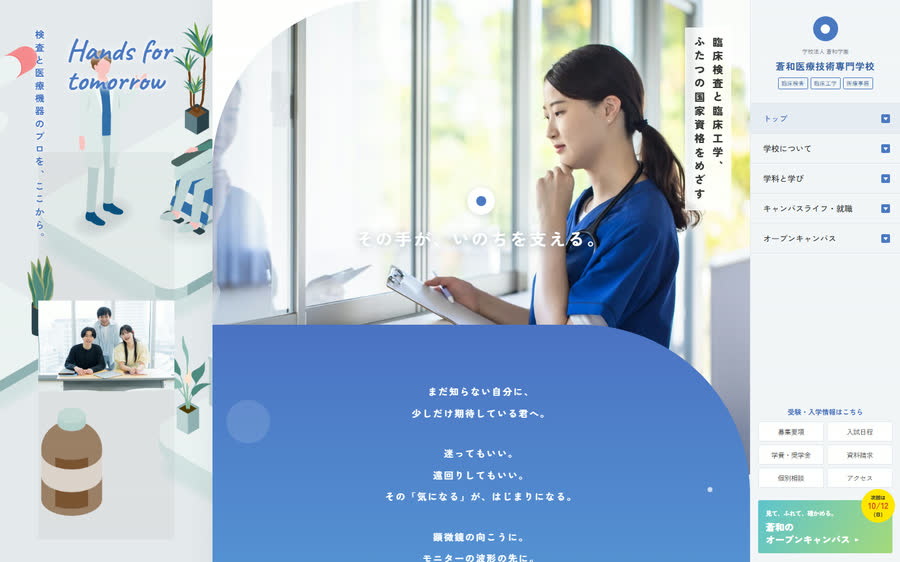
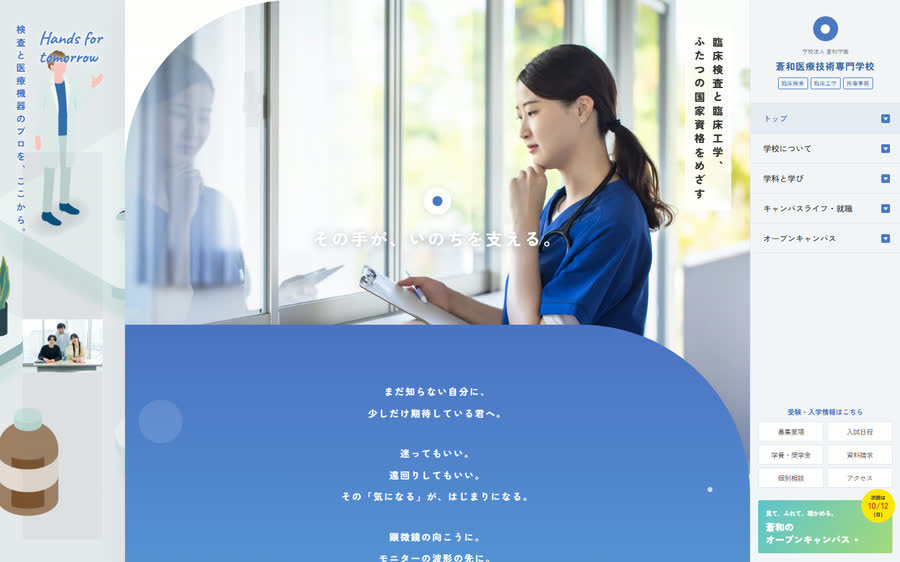
医学技術専門学校① をさらにワイドに（860px → 1000px）
メインを広げると左の装飾「Hands for tomorrow」が隠れたため、
装飾側も左端に寄せて縮小し、両立させた。

- メインカラム 860px → 1000px
- 装飾の位置 left:48px → 18px、gap 28px → 14px
- 手書き文字 48px → 30px（max-width:118px で折り返し）

diff --git a/sites/64-single-page-medical-school-s/Medical Technology School.dc.html b/sites/64-single-page-medical-school-s/Medical Technology School.dc.html
@@ -37,9 +37,9 @@ img{max-width:100%}
         <div style="position:absolute;inset:0">
           <image-slot id="left-bg-illustration" shape="rect" fit="cover" placeholder="背景イラスト（横長・全面）" src="images/left-bg.png"></image-slot>
         </div>
-        <div style="position:absolute;top:48px;left:48px;display:flex;gap:28px;align-items:flex-start;pointer-events:none">
+        <div style="position:absolute;top:40px;left:18px;display:flex;gap:14px;align-items:flex-start;pointer-events:none">
           <div style="writing-mode:vertical-rl;font-size:15px;font-weight:700;letter-spacing:.35em;color:#3f6fbf;line-height:2;text-shadow:0 0 10px #fff,0 0 3px #fff">検査と医療機器のプロを、ここから。</div>
-          <div style="font-family:'Caveat',cursive;font-size:clamp(36px,3.4vw,48px);line-height:1;color:#4a78c2;transform:rotate(-6deg);margin-top:8px;text-shadow:0 0 12px #fff,0 0 4px #fff">Hands for tomorrow</div>
+          <div style="font-family:'Caveat',cursive;font-size:clamp(24px,2vw,30px);line-height:1.05;color:#4a78c2;transform:rotate(-6deg);margin-top:6px;max-width:118px;text-shadow:0 0 12px #fff,0 0 4px #fff">Hands for tomorrow</div>
         </div>
         <div class="char-wrap" data-anim="float" data-dur="8000" style="position:absolute;left:50%;bottom:4%;width:min(64%,440px);height:min(72vh,620px);margin-left:max(-32%,-220px)">
           <image-slot src="_filled/16-20.jpg" id="left-character" shape="rect" fit="contain" placeholder="キャラクターイラスト（透過PNG）"></image-slot>
@@ -48,7 +48,7 @@ img{max-width:100%}
     </sc-if>
   </div>
 
-  <main class="page-main" style="width:100%;max-width:860px;flex-shrink:0;position:relative;background:#fff">
+  <main class="page-main" style="width:100%;max-width:1000px;flex-shrink:0;position:relative;background:#fff">
 
     <sc-if value="{{ narrow }}" hint-placeholder-val="{{ false }}">
       <header style="position:sticky;top:0;z-index:40;display:flex;align-items:center;justify-content:space-between;padding:10px 16px;background:rgba(255,255,255,.94);backdrop-filter:blur(8px);border-bottom:1px solid #e6ebf1">
@@ -364,7 +364,7 @@ img{max-width:100%}
 </div>
 
 <sc-if value="{{ showBar }}" hint-placeholder-val="{{ false }}">
-  <div style="position:fixed;left:50%;bottom:0;transform:translateX(-50%);width:100%;max-width:860px;z-index:45;display:grid;grid-template-columns:1fr 1.3fr 1fr;background:#fff;border-top:1px solid #dfe5ec;box-shadow:0 -4px 16px rgba(40,60,90,.08)">
+  <div style="position:fixed;left:50%;bottom:0;transform:translateX(-50%);width:100%;max-width:1000px;z-index:45;display:grid;grid-template-columns:1fr 1.3fr 1fr;background:#fff;border-top:1px solid #dfe5ec;box-shadow:0 -4px 16px rgba(40,60,90,.08)">
     <a href="#s05" onClick="{{ go.s05 }}" style="height:58px;display:grid;place-items:center;font-size:12px;font-weight:700;color:#3f6fbf">資料請求</a>
     <a href="#s05" onClick="{{ go.s05 }}" style="height:58px;display:flex;flex-direction:column;align-items:center;justify-content:center;gap:1px;background:linear-gradient(120deg,#5ec3cf,#a6d97a);color:#fff;font-size:12px;font-weight:900"><span style="font-size:9px">次回 {{ ocDate }}</span>オープンキャンパス</a>
     <a href="#s05" onClick="{{ go.s05 }}" style="height:58px;display:grid;place-items:center;font-size:12px;font-weight:700;color:#3f6fbf">個別相談</a>

diff --git a/index.html b/index.html
@@ -625,7 +625,7 @@ footer{color:var(--muted);font-size:12.5px;border-top:1px solid var(--line);padd
     <div class="links"><a href="sites/63-manufacturing-factory-websit/Home.dc.html" target="_blank" rel="noopener">サイトを開く</a></div>
   </div>
 </article></div></section><section><h2>教育・保育 <span>25</span></h2><div class="grid"><article class="card" data-cat="教育・保育" data-dark="0" data-band="1〜3ページ" data-q="医学技術専門学校① 医学技術専門学校">
-  <a class="shot" href="sites/64-single-page-medical-school-s/Medical%20Technology%20School.dc.html" target="_blank" rel="noopener"><img src="assets/thumbs/64-single-page-medical-school-s.jpg?v=346e1a33" alt="医学技術専門学校①のトップページ" loading="lazy" decoding="async"><span class="badge">医学技術専門学校</span></a>
+  <a class="shot" href="sites/64-single-page-medical-school-s/Medical%20Technology%20School.dc.html" target="_blank" rel="noopener"><img src="assets/thumbs/64-single-page-medical-school-s.jpg?v=d4fc1974" alt="医学技術専門学校①のトップページ" loading="lazy" decoding="async"><span class="badge">医学技術専門学校</span></a>
   <div class="body">
     <h3><a href="sites/64-single-page-medical-school-s/Medical%20Technology%20School.dc.html" target="_blank" rel="noopener">医学技術専門学校①</a></h3>
     <p class="tag">その手が、いのちを支える。</p>
